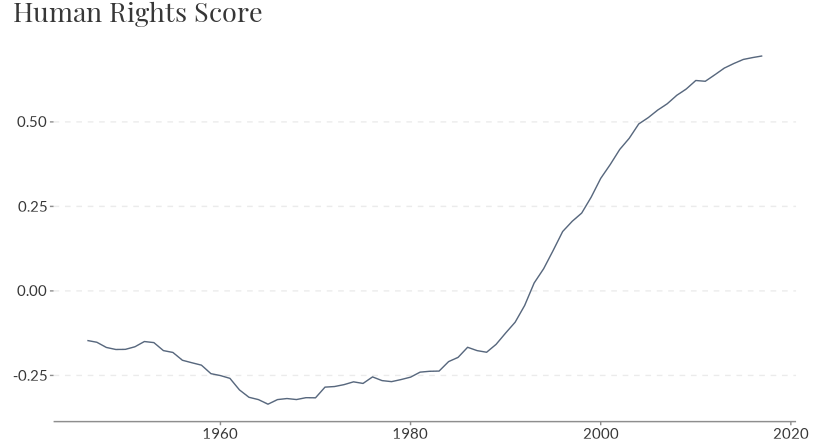
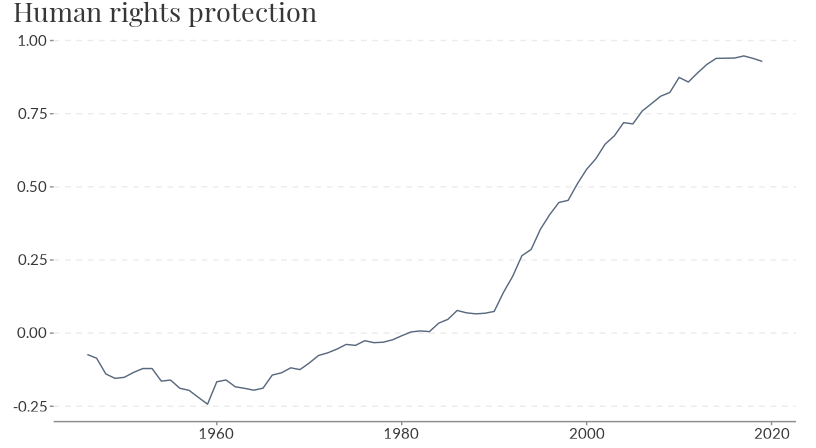
add to-do list to readme

diff --git a/README.md b/README.md
@@ -45,21 +45,17 @@ library(owidR)
 
 owid_search("human rights")
 ##      titles                                                                                                                                        
-## [1,] "Human Rights Score vs. Political regime type"                                                                                                
-## [2,] "Political regime type vs. Human Rights Score"                                                                                                
-## [3,] "Countries with National Human Rights Institutions in compliance with the Paris Principles"                                                   
-## [4,] "Human Rights Score vs. GDP per capita"                                                                                                       
-## [5,] "Human Rights Scores"                                                                                                                         
-## [6,] "Human Rights Violations"                                                                                                                     
-## [7,] "Proportion of countries that applied for accreditation as independent National Human Rights Institutions in compliance with Paris Principles"
+## [1,] "Human rights protection vs. liberal democracy"                                                                                               
+## [2,] "Countries with National Human Rights Institutions in compliance with the Paris Principles"                                                   
+## [3,] "Human rights protection"                                                                                                                     
+## [4,] "Human rights protection vs. GDP per capita"                                                                                                  
+## [5,] "Proportion of countries that applied for accreditation as independent National Human Rights Institutions in compliance with Paris Principles"
 ##      chart_id                                                      
-## [1,] "human-rights-score-vs-political-regime-type"                 
-## [2,] "political-regime-type-vs-human-rights-score"                 
-## [3,] "countries-in-compliance-with-paris-principles"               
-## [4,] "human-rights-score-vs-gdp-per-capita"                        
-## [5,] "human-rights-scores"                                         
-## [6,] "human-rights-violations"                                     
-## [7,] "countries-that-applied-for-accreditation-in-paris-principles"
+## [1,] "human-rights-protection-vs-liberal-democracy"                
+## [2,] "countries-in-compliance-with-paris-principles"               
+## [3,] "human-rights-protection"                                     
+## [4,] "human-rights-protection-vs-gdp-per-capita"                   
+## [5,] "countries-that-applied-for-accreditation-in-paris-principles"
 ```
 
 Let’s use the human rights scores dataset.
@@ -68,20 +64,20 @@ Let’s use the human rights scores dataset.
 rights <- owid("human-rights-scores")
 
 rights
-## # A tibble: 11,717 × 4
-##    entity      code   year `Human Rights Score (Schnakenberg & Fariss, 2014; F…`
-##  * <chr>       <chr> <int>                                                 <dbl>
-##  1 Afghanistan AFG    1946                                                 0.690
-##  2 Afghanistan AFG    1947                                                 0.740
-##  3 Afghanistan AFG    1948                                                 0.787
-##  4 Afghanistan AFG    1949                                                 0.817
-##  5 Afghanistan AFG    1950                                                 0.851
-##  6 Afghanistan AFG    1951                                                 0.909
-##  7 Afghanistan AFG    1952                                                 0.938
-##  8 Afghanistan AFG    1953                                                 0.988
-##  9 Afghanistan AFG    1954                                                 1.01 
-## 10 Afghanistan AFG    1955                                                 1.01 
-## # … with 11,707 more rows
+## # A tibble: 11,273 × 4
+##    entity      code   year `Human rights protection`
+##  * <chr>       <chr> <int>                     <dbl>
+##  1 Afghanistan AFG    1946                     0.829
+##  2 Afghanistan AFG    1947                     0.878
+##  3 Afghanistan AFG    1948                     0.935
+##  4 Afghanistan AFG    1949                     0.966
+##  5 Afghanistan AFG    1950                     1.01 
+##  6 Afghanistan AFG    1951                     1.09 
+##  7 Afghanistan AFG    1952                     1.13 
+##  8 Afghanistan AFG    1953                     1.18 
+##  9 Afghanistan AFG    1954                     1.22 
+## 10 Afghanistan AFG    1955                     1.22 
+## # … with 11,263 more rows
 ```
 
 `owid_plot()` makes it easy to visualise an owid dataset, plotting the
@@ -125,7 +121,7 @@ rates, using `owid_covid()`.
 covid <- owid_covid()
 
 covid
-## # A tibble: 161,553 × 67
+## # A tibble: 192,788 × 67
 ##    iso_code continent location date       total_cases new_cases new_cases_smoot…
 ##    <chr>    <chr>     <chr>    <date>           <dbl>     <dbl>            <dbl>
 ##  1 AFG      Asia      Afghani… 2020-02-24           5         5           NA    
@@ -138,7 +134,7 @@ covid
 ##  8 AFG      Asia      Afghani… 2020-03-02           5         0            0    
 ##  9 AFG      Asia      Afghani… 2020-03-03           5         0            0    
 ## 10 AFG      Asia      Afghani… 2020-03-04           5         0            0    
-## # … with 161,543 more rows, and 60 more variables: total_deaths <dbl>,
+## # … with 192,778 more rows, and 60 more variables: total_deaths <dbl>,
 ## #   new_deaths <dbl>, new_deaths_smoothed <dbl>, total_cases_per_million <dbl>,
 ## #   new_cases_per_million <dbl>, new_cases_smoothed_per_million <dbl>,
 ## #   total_deaths_per_million <dbl>, new_deaths_per_million <dbl>,
@@ -146,3 +142,10 @@ covid
 ## #   icu_patients <dbl>, icu_patients_per_million <dbl>, hosp_patients <dbl>,
 ## #   hosp_patients_per_million <dbl>, weekly_icu_admissions <dbl>, …
 ```
+
+## To-do
+
+-   [ ] Add function to load multiple country datasets into on dataframe
+-   [ ] Add caching of data (inc. backend)
+-   [ ] Remove interactive plotting to reduce dependencies
+-   [ ] Plan/think of way to import owid explorers
